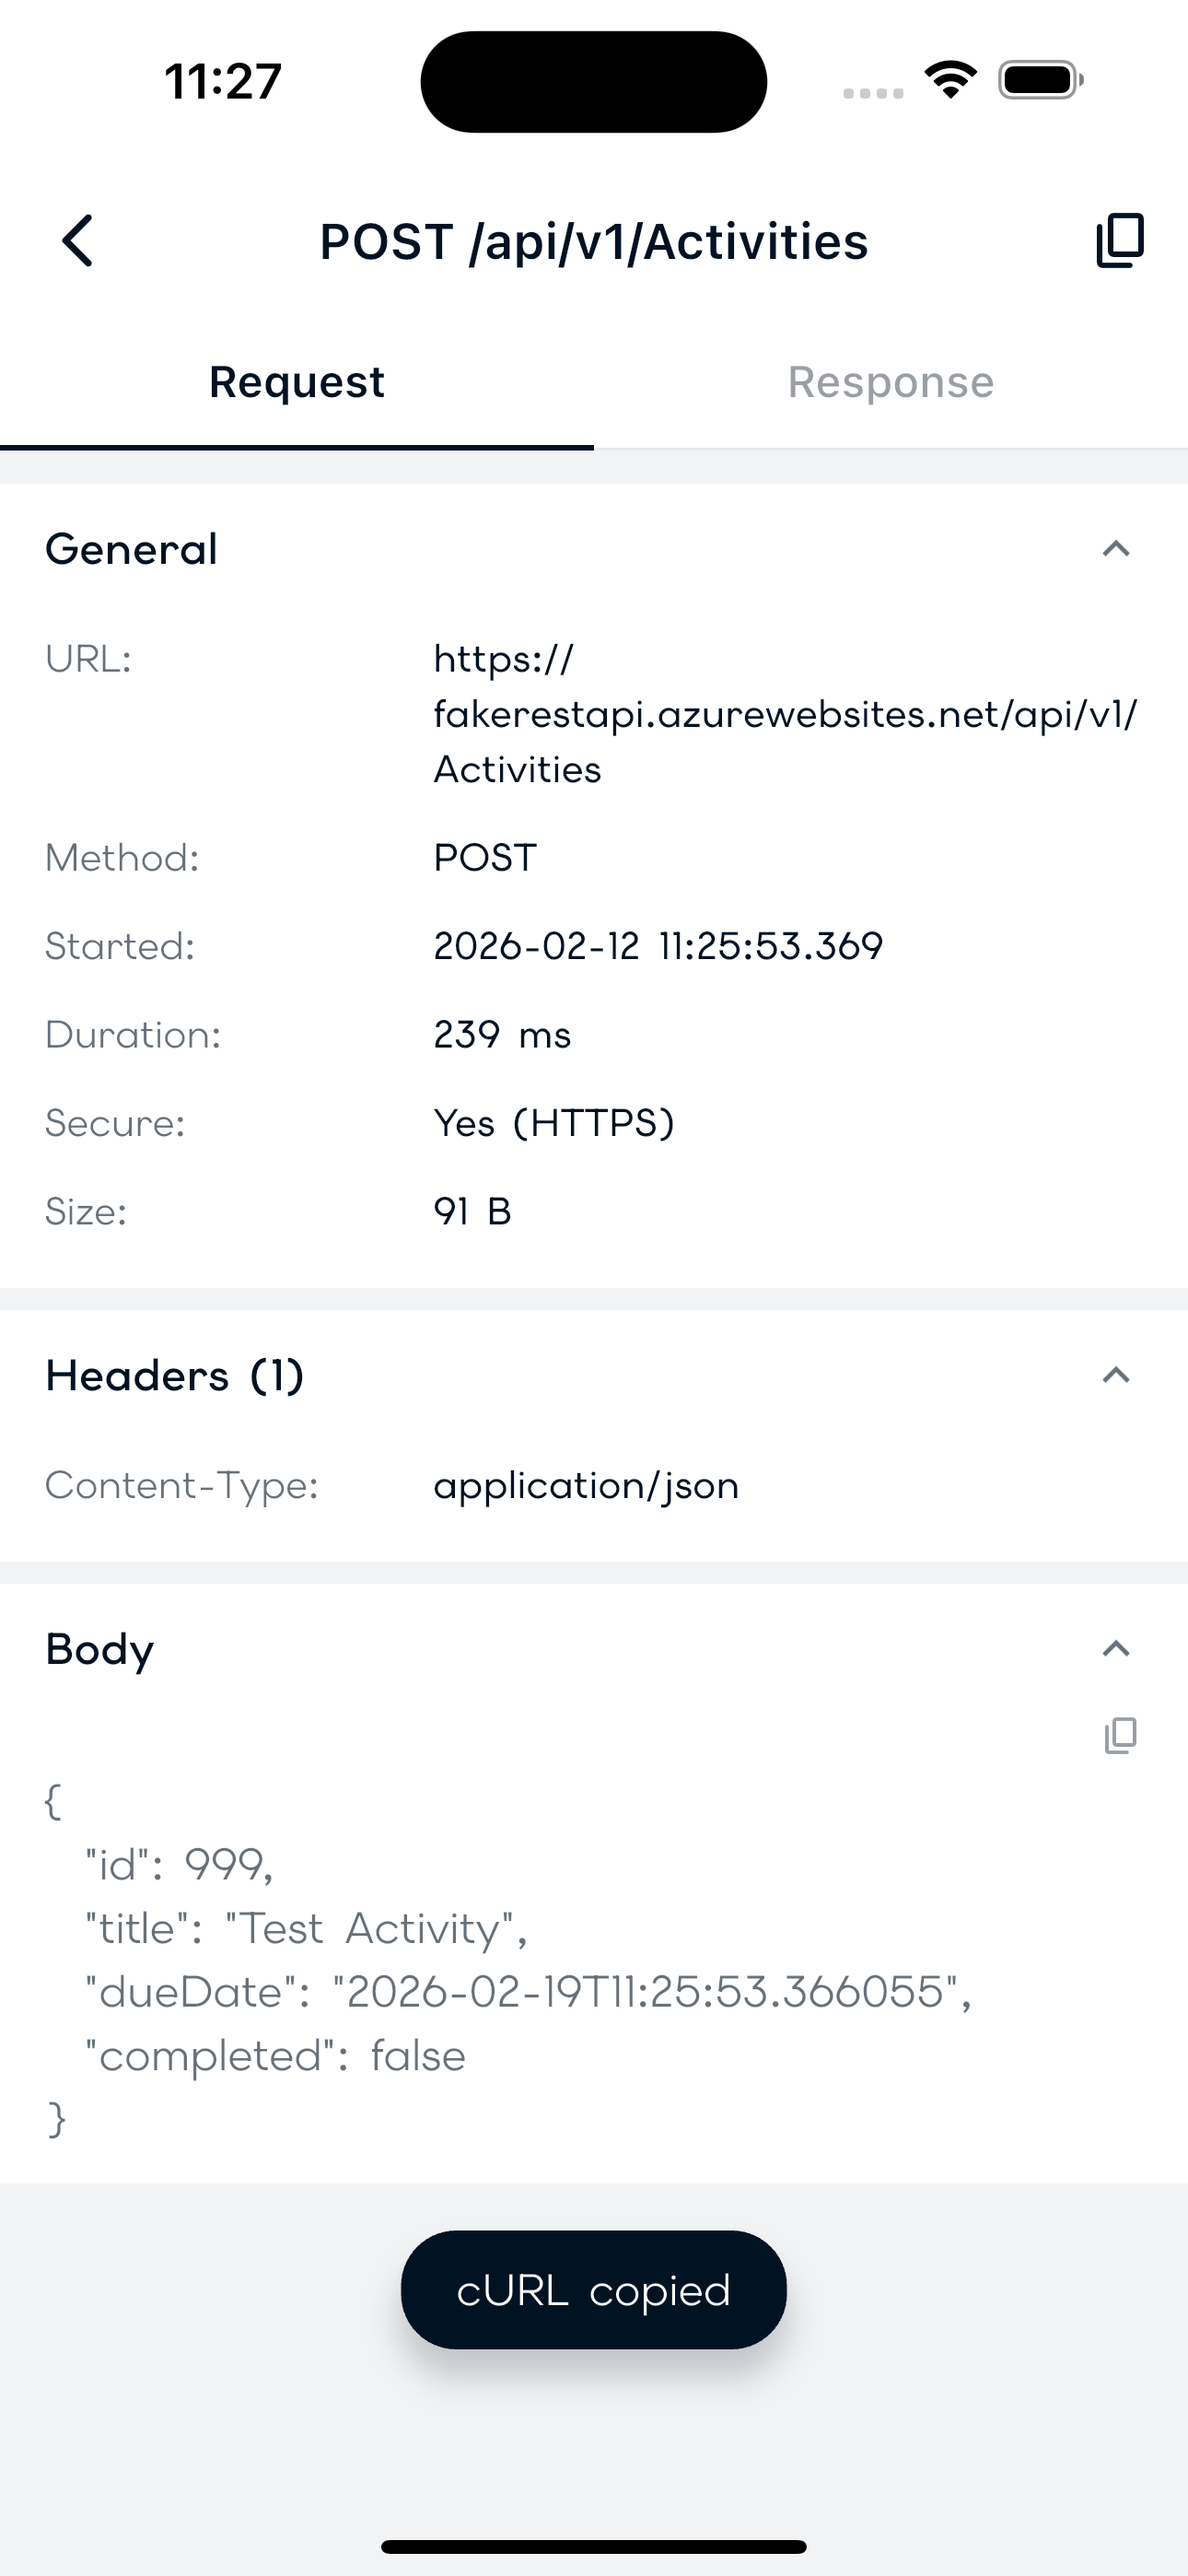
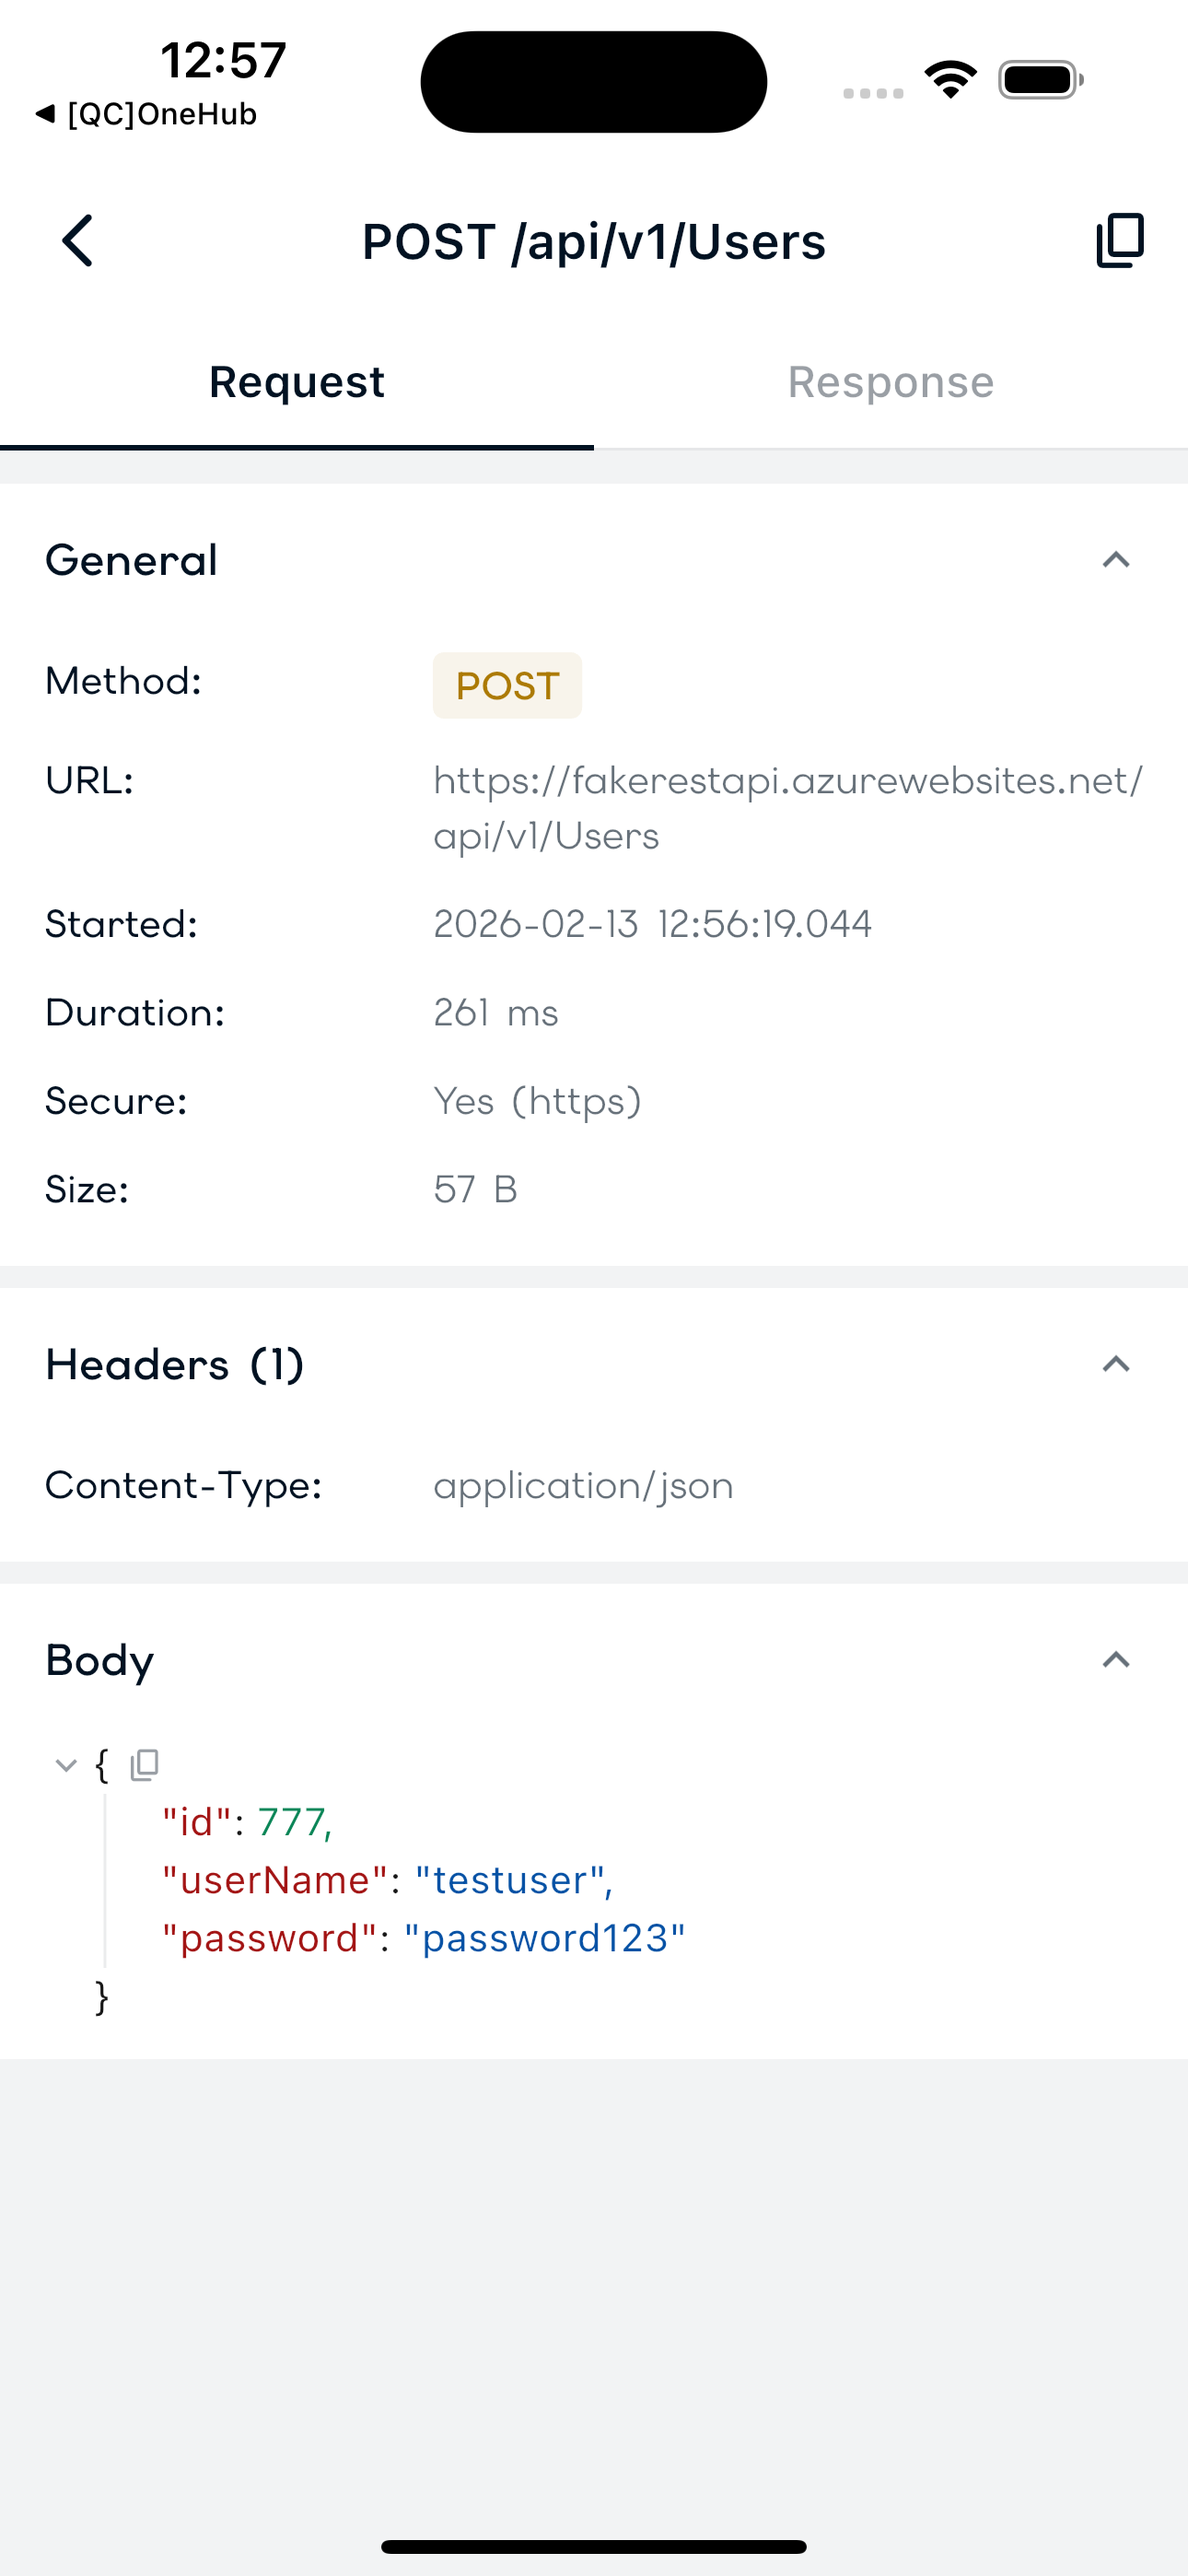
release: v0.0.2

diff --git a/README.md b/README.md
@@ -11,6 +11,7 @@ A lightweight HTTP inspector for Dio with a clean minimal UI. Monitor and debug 
 - ⚡ **Request Timing** - See how long each request takes
 - 🎯 **Quick Filter** - Quickly find your requests by URL, HTTP method and status code
 - 💾 **In-Memory Storage** - Configurable circular buffer (default: 1000 calls)
+- 🌳 **JSON Visualizer** - Interactive JSON tree viewer
 
 ## Screenshots
 

diff --git a/CHANGELOG.md b/CHANGELOG.md
@@ -1,5 +1,10 @@
 # Changelog
 
+## [0.0.2] - 2026-02-13
+
+### Features
+- Added JSON visualizer with interactive tree view
+
 ## [0.0.1] - 2026-02-12
 
 ### Initial Release
